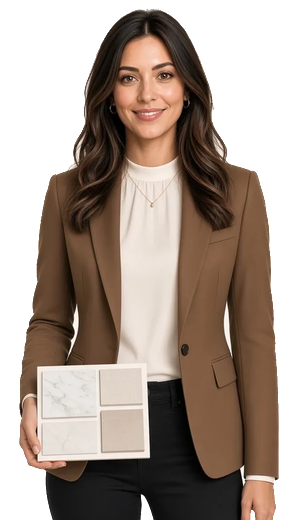
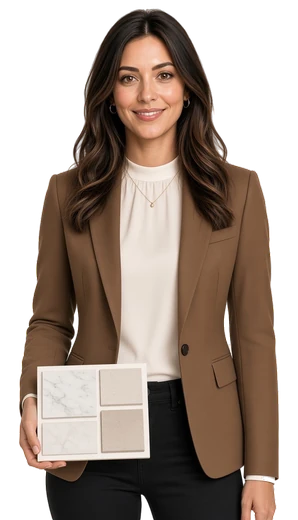
Remat Gigi's hairline and hold the floating cutout still. (#14)
Redo the chat-agent cutout with a hair-aware matte and color decontamination so the cream studio fringe is gone against dark tile and forest green. Drop the breathe/sway/wave/nod scale animations and the unused parallax wrappers so she no longer pulses or zooms on the page.

diff --git a/app/globals.css b/app/globals.css
@@ -420,16 +420,6 @@ section[aria-label="Introduction"] .hero-copy {
 .camille-ground {
   display: none;
 }
-.camille-parallax,
-.camille-sway,
-.camille-breathe,
-.camille-react {
-  display: block;
-  width: 100%;
-  height: 100%;
-  transform-origin: 50% 100%;
-  pointer-events: none;
-}
 .camille-cutout {
   position: absolute;
   left: 50%;
@@ -443,35 +433,6 @@ section[aria-label="Introduction"] .hero-copy {
   mask-image: linear-gradient(to bottom, #000 86%, rgba(0,0,0,.45) 95%, transparent 100%);
   user-select: none;
   pointer-events: none;
-}
-@keyframes camille-breathe {
-  0%, 100% { transform: scale(1); }
-  50% { transform: scale(1.018); }
-}
-@keyframes camille-sway {
-  0%, 100% { transform: rotate(-0.6deg); }
-  50% { transform: rotate(0.6deg); }
-}
-@keyframes camille-wave {
-  0% { transform: rotate(0) scale(1); }
-  30% { transform: rotate(-6deg) scale(1.03); }
-  60% { transform: rotate(3deg) scale(1.01); }
-  100% { transform: rotate(0) scale(1); }
-}
-@keyframes camille-nod {
-  0%, 100% { transform: rotate(0) translateY(0); }
-  40% { transform: rotate(3deg) translateY(4px); }
-  70% { transform: rotate(-0.5deg) translateY(0); }
-}
-.camille-breathe { animation: camille-breathe 4.8s ease-in-out infinite; }
-.camille-sway { animation: camille-sway 6.8s ease-in-out infinite; }
-.camille-widget.is-open .camille-react { animation: camille-wave .75s ease-out; }
-.camille-widget.is-typing .camille-react { animation: camille-nod .9s ease-in-out infinite; transform-origin: 50% 18%; }
-@media (prefers-reduced-motion: reduce) {
-  .camille-breathe, .camille-sway, .camille-react, .camille-parallax {
-    animation: none !important;
-    transform: none !important;
-  }
 }
 /* Phones: small frameless upper-torso cutout (no circle border or
    background) so the sticky quote bar and hero CTAs stay clear.
@@ -508,14 +469,6 @@ section[aria-label="Introduction"] .hero-copy {
     filter: none;
     -webkit-mask-image: linear-gradient(to bottom, #000 78%, rgba(0,0,0,.4) 90%, transparent 100%);
     mask-image: linear-gradient(to bottom, #000 78%, rgba(0,0,0,.4) 90%, transparent 100%);
-  }
-  .camille-parallax,
-  .camille-sway,
-  .camille-breathe,
-  .camille-react {
-    transform-origin: 50% 100%;
-    animation: none !important;
-    transform: none !important;
   }
   .camille-talk { margin-bottom: 8px !important; }
   .camille-panel {

diff --git a/components/chat-widget.tsx b/components/chat-widget.tsx
@@ -447,15 +447,7 @@ export function ChatWidget({ raised = false }: { raised?: boolean }) {
           data-testid="gigi-launcher"
         >
           <span className="camille-ground" aria-hidden="true" />
-          <span className="camille-parallax">
-            <span className="camille-sway">
-              <span className="camille-breathe">
-                <span className="camille-react">
-                  <CamilleCutout loadFull={open} />
-                </span>
-              </span>
-            </span>
-          </span>
+          <CamilleCutout loadFull={open} />
         </button>
       ) : null}
     </div>
